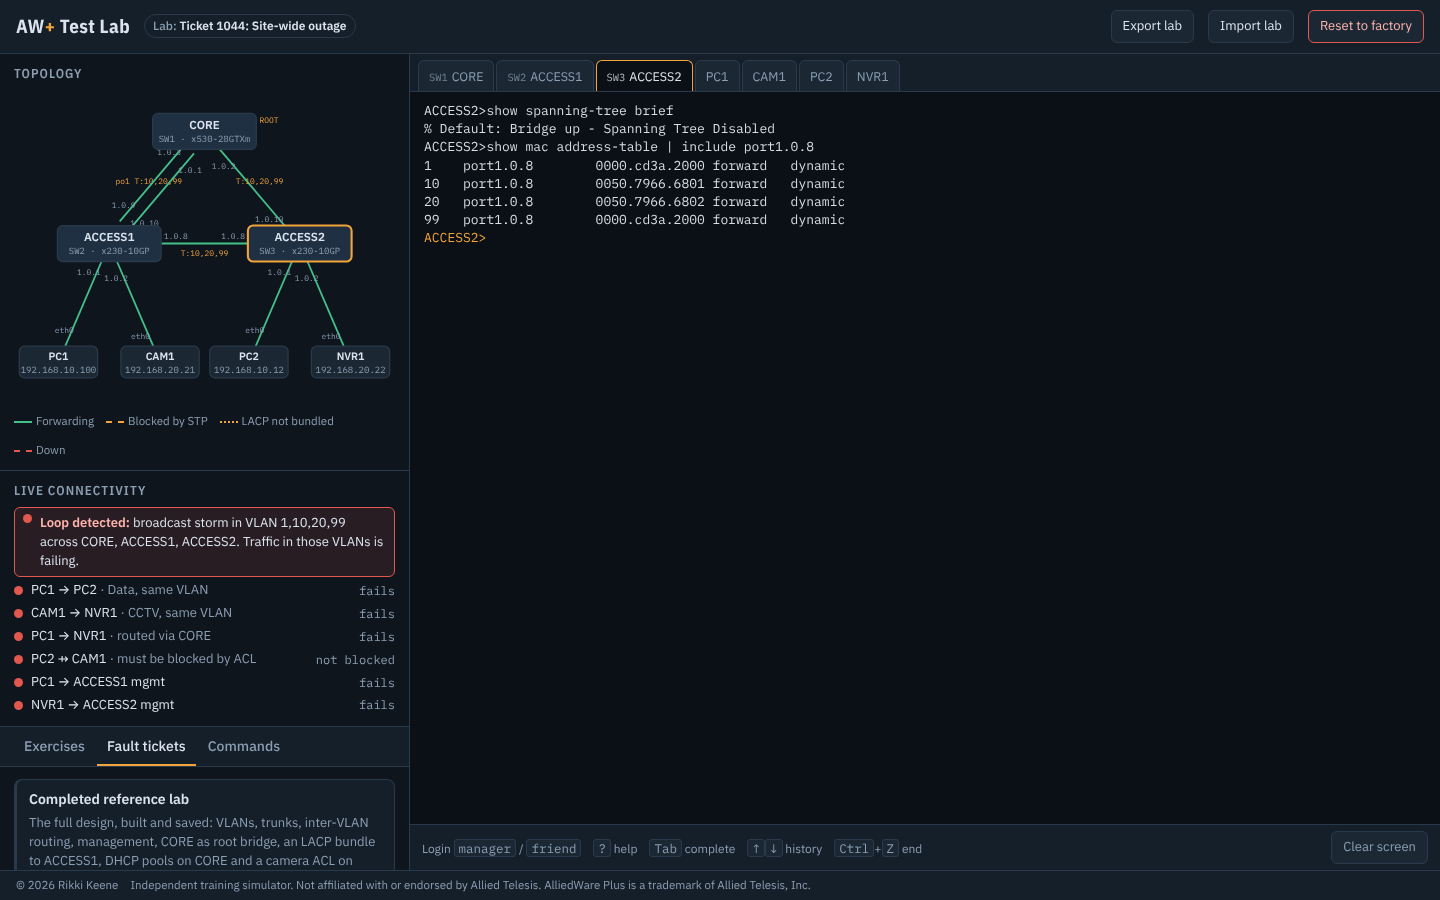
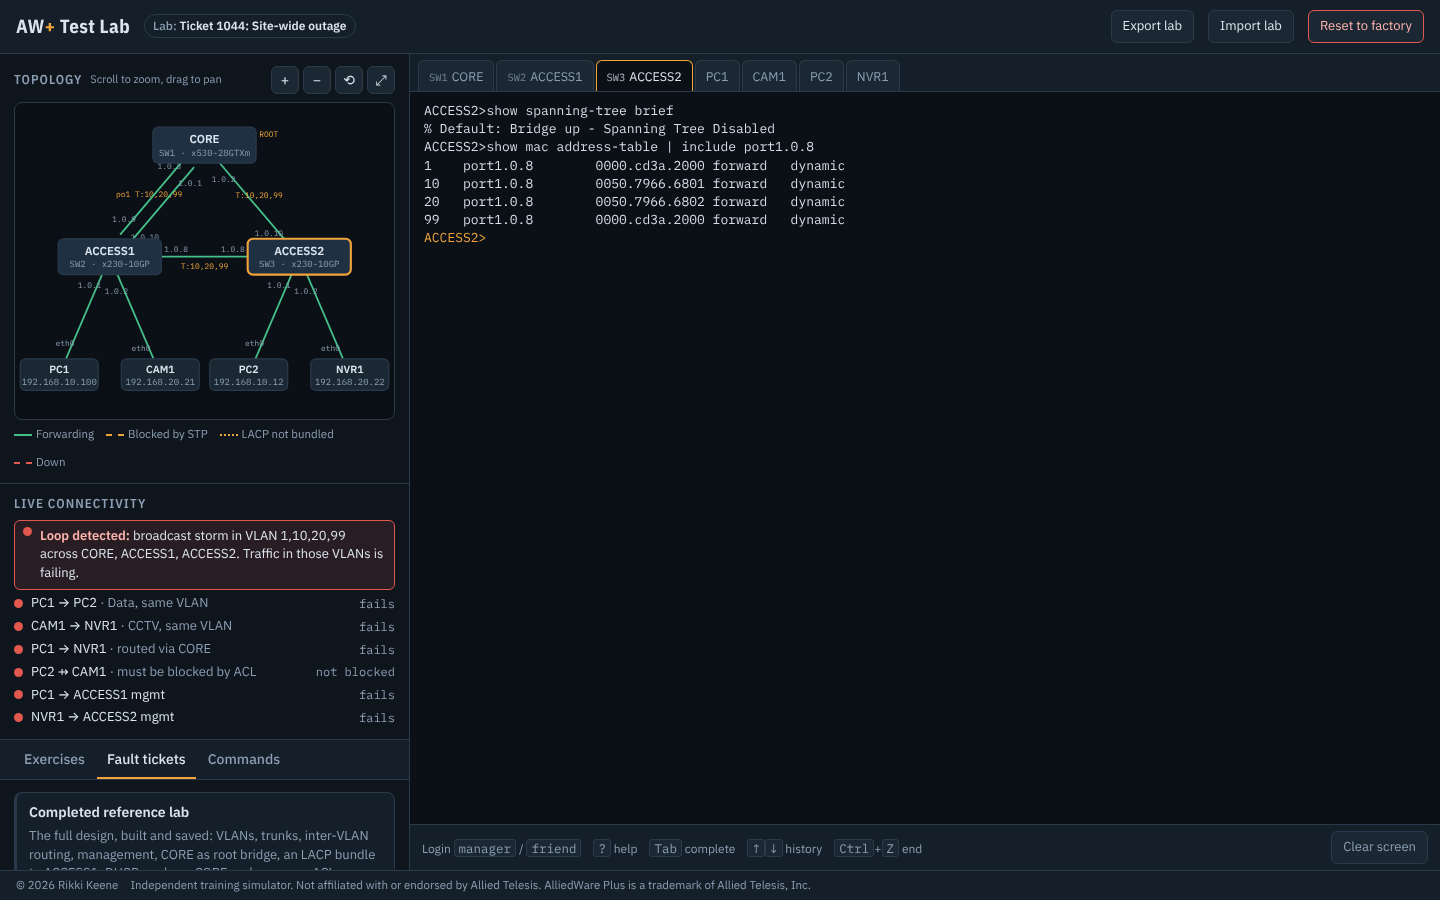
Make topology zoomable/pannable and add a large live view
- Wheel, pinch, +/- and reset zoom on the rail topology; drag to pan
  (a drag never triggers a device click)
- Large full-page topology view with the same controls, live-updating
- 'Open in new window' pop-out where the browser allows popups, with
  the large view as fallback inside sandboxed frames
- Regenerate README screenshots

Claude-Session: https://claude.ai/code/session_017NfEFSkAiKx3U3qgvE9GyH

diff --git a/index.html b/index.html
@@ -38,16 +38,33 @@ main{display:grid;grid-template-columns:minmax(330px,410px) 1fr;min-height:0}
 .rail{border-right:1px solid var(--line);overflow-y:auto;display:flex;flex-direction:column;min-height:0}
 .section{padding:12px 14px;border-bottom:1px solid var(--line)}
 .section h2{font:600 13px/1.2 var(--display);letter-spacing:.08em;text-transform:uppercase;color:var(--muted);margin:0 0 8px}
-#topo{width:100%;height:auto;display:block}
-#topo .dev{cursor:pointer}
-#topo .dev rect{fill:var(--panel-2);stroke:var(--line);stroke-width:1.2}
-#topo .dev.sw rect{fill:#1f3043}
-#topo .dev.active rect{stroke:var(--accent);stroke-width:2}
-#topo .dev:hover rect{stroke:var(--muted)}
-#topo text{fill:var(--text);font-family:var(--body)}
-#topo .sub{fill:var(--muted);font-size:8.5px;font-family:var(--mono)}
-#topo .pl{fill:var(--muted);font-size:7.5px;font-family:var(--mono)}
-#topo .vl{font-size:7.5px;font-family:var(--mono);fill:var(--accent)}
+.topo{width:100%;height:auto;display:block;touch-action:none;user-select:none;-webkit-user-select:none;cursor:grab}
+.topo.panning{cursor:grabbing}
+.topo .dev{cursor:pointer}
+.topo .dev rect{fill:var(--panel-2);stroke:var(--line);stroke-width:1.2}
+.topo .dev.sw rect{fill:#1f3043}
+.topo .dev.active rect{stroke:var(--accent);stroke-width:2}
+.topo .dev:hover rect{stroke:var(--muted)}
+.topo text{fill:var(--text);font-family:var(--body)}
+.topo .sub{fill:var(--muted);font-size:8.5px;font-family:var(--mono)}
+.topo .pl{fill:var(--muted);font-size:7.5px;font-family:var(--mono)}
+.topo .vl{font-size:7.5px;font-family:var(--mono);fill:var(--accent)}
+.topowrap{position:relative;border:1px solid var(--line);border-radius:8px;background:var(--term);overflow:hidden}
+.zoombar{position:absolute;top:6px;right:6px;display:flex;gap:4px;z-index:1}
+.zoombar button{min-width:28px;height:28px;padding:0 7px;border-radius:6px;background:var(--panel-2);border:1px solid var(--line);font-size:14px;line-height:1}
+.zoombar button:hover{border-color:var(--muted)}
+.zoombar.inline{position:static;margin-left:auto}
+.topohead{display:flex;align-items:center;gap:8px;margin:0 0 8px}
+.topohead h2{margin:0}
+.zoomhint{font-size:11px;color:var(--muted);white-space:nowrap}
+.topofull{position:fixed;inset:0;z-index:9;background:var(--bg);display:grid;grid-template-rows:auto 1fr auto}
+.topofull[hidden]{display:none}
+.topofull .bar{display:flex;align-items:center;gap:10px;padding:10px 16px;border-bottom:1px solid var(--line);background:var(--panel);flex-wrap:wrap}
+.topofull .bar h2{font:700 17px/1 var(--display);margin:0;letter-spacing:.02em}
+.topofull .topowrap{margin:12px 16px 0;border-radius:10px;min-height:0;display:flex}
+.topofull .topo{flex:1;width:100%;height:auto;min-height:0;align-self:stretch}
+.topofull .legend{padding:8px 16px 12px}
+.topofull .msg{font-size:12.5px;color:var(--muted)}
 
 .tests{display:grid;gap:4px;margin:0;padding:0;list-style:none}
 .tests li{display:flex;gap:8px;align-items:center;font-size:13px}
@@ -127,8 +144,10 @@ footer{padding:6px 16px;font-size:11.5px;color:var(--muted);border-top:1px solid
 <main>
   <aside class="rail">
     <div class="section">
-      <h2>Topology</h2>
-      <svg id="topo" viewBox="0 0 360 300" role="img" aria-label="Lab topology: CORE switch with two links to ACCESS1 and one to ACCESS2, a cross link between the access switches, and a PC and a CCTV device on each access switch"></svg>
+      <div class="topohead"><h2>Topology</h2><span class="zoomhint">Scroll to zoom, drag to pan</span><div class="zoombar inline" data-for="topo"><button type="button" data-z="in" aria-label="Zoom in" title="Zoom in">+</button><button type="button" data-z="out" aria-label="Zoom out" title="Zoom out">&minus;</button><button type="button" data-z="reset" aria-label="Reset zoom" title="Reset zoom">&#x27F2;</button><button type="button" id="btnTopoFull" aria-label="Open large topology view" title="Open large view">&#x2922;</button></div></div>
+      <div class="topowrap">
+        <svg id="topo" class="topo" viewBox="0 0 360 300" role="img" aria-label="Lab topology: CORE switch with two links to ACCESS1 and one to ACCESS2, a cross link between the access switches, and a PC and a CCTV device on each access switch"></svg>
+      </div>
       <p class="legend"><span><i></i>Forwarding</span><span><i class="b"></i>Blocked by STP</span><span><i class="l"></i>LACP not bundled</span><span><i class="d"></i>Down</span></p>
     </div>
     <div class="section">
@@ -165,6 +184,17 @@ footer{padding:6px 16px;font-size:11.5px;color:var(--muted);border-top:1px solid
   <span>Independent training simulator. Not affiliated with or endorsed by Allied Telesis. AlliedWare Plus is a trademark of Allied Telesis, Inc.</span>
 </footer>
 
+<div class="topofull" id="topoFull" hidden role="dialog" aria-modal="true" aria-label="Topology, large view">
+  <div class="bar"><h2>Topology</h2><span class="msg">Live view. Click a device to jump to its console. Scroll or pinch to zoom, drag to pan.</span><span class="spacer"></span>
+    <span class="msg" id="popMsg"></span>
+    <button class="btn" type="button" id="btnTopoWin">Open in new window</button>
+    <button class="btn primary" type="button" id="btnTopoClose">Back to lab</button></div>
+  <div class="topowrap">
+    <div class="zoombar" data-for="topoBig"><button type="button" data-z="in" aria-label="Zoom in" title="Zoom in">+</button><button type="button" data-z="out" aria-label="Zoom out" title="Zoom out">&minus;</button><button type="button" data-z="reset" aria-label="Reset zoom" title="Reset zoom">&#x27F2;</button></div>
+    <svg id="topoBig" class="topo" viewBox="0 0 360 300" preserveAspectRatio="xMidYMid meet" role="img" aria-label="Lab topology, large view"></svg>
+  </div>
+  <p class="legend"><span><i></i>Forwarding</span><span><i class="b"></i>Blocked by STP</span><span><i class="l"></i>LACP not bundled</span><span><i class="d"></i>Down</span></p>
+</div>
 <div class="modal" id="modal" hidden>
   <div class="dialog" role="dialog" aria-modal="true" aria-labelledby="mTitle">
     <h2 id="mTitle"></h2>
@@ -1358,6 +1388,9 @@ function renderTopo(){
       `<text x="${f.x}" y="${f.y-2}" text-anchor="middle" font-size="${isSw?11:10}" font-weight="600">${esc(isSw?devLabel(id):id)}</text><text class="sub" x="${f.x}" y="${f.y+10}" text-anchor="middle">${esc(isSw?id+' · '+sub:sub)}</text>`+
       (root?`<text class="vl" x="${f.x+w/2+3}" y="${f.y-8}">ROOT</text>`:'')+`</g>`;}
   $('#topo').innerHTML=g;
+  if(!$('#topoFull').hidden)$('#topoBig').innerHTML=g;
+  if(popWin&&!popWin.closed){const t=popWin.document.getElementById('topo');if(t)t.innerHTML=g;}
+  topoSVG=g;
 }
 function renderChecks(){
   const net=buildNet();let warn='';
@@ -1444,6 +1477,54 @@ function submit(){
   if(res&&typeof res.then==='function'){s.busy=true;render();res.finally(()=>{s.busy=false;checkRemote(s);afterCommand();if(id===active)$('#cmd').focus();});}
   afterCommand();
 }
+let topoSVG='',popWin=null;
+// Zoom/pan for a topology SVG by rewriting its viewBox. Wheel/pinch zoom about the pointer, drag pans; a drag never counts as a device click.
+function makeZoom(svg,onPick=selectDev,W=360,H=300){
+  let vb={x:0,y:0,w:W,h:H};const MIN=W/5,MAX=W*1.5;
+  const apply=()=>svg.setAttribute('viewBox',`${vb.x.toFixed(2)} ${vb.y.toFixed(2)} ${vb.w.toFixed(2)} ${vb.h.toFixed(2)}`);
+  const toSvg=(cx,cy)=>{const r=svg.getBoundingClientRect(),s=Math.max(vb.w/r.width,vb.h/r.height),ox=(r.width*s-vb.w)/2,oy=(r.height*s-vb.h)/2;
+    return {x:vb.x-ox+(cx-r.left)*s,y:vb.y-oy+(cy-r.top)*s,s};};
+  const zoom=(f,cx,cy)=>{const nw=Math.min(MAX,Math.max(MIN,vb.w*f));f=nw/vb.w;if(f===1)return;
+    let px=vb.x+vb.w/2,py=vb.y+vb.h/2;if(cx!=null){const p=toSvg(cx,cy);px=p.x;py=p.y;}
+    vb={x:px-(px-vb.x)*f,y:py-(py-vb.y)*f,w:vb.w*f,h:vb.h*f};apply();};
+  const cmd=c=>{if(c==='in')zoom(1/1.25);else if(c==='out')zoom(1.25);else{vb={x:0,y:0,w:W,h:H};apply();}};
+  svg.addEventListener('wheel',e=>{e.preventDefault();zoom(Math.exp(e.deltaY*(e.deltaMode===1?0.05:0.0015)),e.clientX,e.clientY);},{passive:false});
+  const pts=new Map();let moved=false,pinch=0,start=null;
+  svg.addEventListener('pointerdown',e=>{if(e.button)return;pts.set(e.pointerId,{x:e.clientX,y:e.clientY});
+    if(pts.size===1){moved=false;start={x:e.clientX,y:e.clientY};}
+    if(pts.size===2){const [a,b]=[...pts.values()];pinch=Math.hypot(a.x-b.x,a.y-b.y);}});
+  svg.addEventListener('pointermove',e=>{const p=pts.get(e.pointerId);if(!p)return;
+    if(pts.size===1){if(!moved&&Math.hypot(e.clientX-start.x,e.clientY-start.y)<4)return;
+      if(!moved){moved=true;try{svg.setPointerCapture(e.pointerId);}catch(_){}svg.classList.add('panning');}
+      const s=toSvg(0,0).s;vb.x-=(e.clientX-p.x)*s;vb.y-=(e.clientY-p.y)*s;apply();}
+    else if(pts.size===2){moved=true;const o=[...pts.entries()].find(([k])=>k!==e.pointerId)[1],d=Math.hypot(e.clientX-o.x,e.clientY-o.y);
+      if(pinch&&d)zoom(pinch/d,(e.clientX+o.x)/2,(e.clientY+o.y)/2);pinch=d;}
+    p.x=e.clientX;p.y=e.clientY;});
+  const up=e=>{pts.delete(e.pointerId);if(pts.size<2)pinch=0;if(!pts.size)svg.classList.remove('panning');
+    if(pts.size===1){const [q]=pts.values();start={x:q.x,y:q.y};}};
+  svg.addEventListener('pointerup',up);svg.addEventListener('pointercancel',up);
+  svg.addEventListener('click',e=>{if(moved){moved=false;return;}const g=e.target.closest('.dev');if(g)onPick(g.dataset.id);},true);
+  svg.addEventListener('keydown',e=>{const g=e.target.closest('.dev');if(g&&(e.key==='Enter'||e.key===' ')){e.preventDefault();onPick(g.dataset.id);}
+    else if(e.key==='+'||e.key==='=')cmd('in');else if(e.key==='-')cmd('out');else if(e.key==='0')cmd('reset');});
+  svg.addEventListener('dblclick',e=>{if(!e.target.closest('.dev'))zoom(1/1.6,e.clientX,e.clientY);});
+  return {cmd};
+}
+// Real pop-out window kept live by the main page. Returns false where popups are blocked (e.g. a sandboxed frame).
+function openTopoWindow(){
+  if(popWin&&!popWin.closed){popWin.focus();return true;}
+  let w=null;try{w=window.open('','awlab-topology','width=1100,height=820');}catch(_){w=null;}
+  if(!w)return false;
+  try{const d=w.document,css=[...document.querySelectorAll('style')].map(x=>x.textContent).join('\n');
+    d.open();d.write(`<!DOCTYPE html><html lang="en"><head><meta charset="utf-8"><title>AW+ Test Lab: topology</title><style>${css}
+body{display:grid;grid-template-rows:auto 1fr auto;height:100vh}</style></head><body><div class="topofull" style="position:static;height:100vh">
+<div class="bar"><h2>Topology</h2><span class="msg">Live view of the lab. Click a device to open its console in the lab window.</span></div>
+<div class="topowrap"><div class="zoombar"><button type="button" data-z="in" aria-label="Zoom in">+</button><button type="button" data-z="out" aria-label="Zoom out">&minus;</button><button type="button" data-z="reset" aria-label="Reset zoom">&#x27F2;</button></div>
+<svg id="topo" class="topo" viewBox="0 0 360 300" role="img" aria-label="Lab topology"></svg></div>
+<p class="legend"><span><i></i>Forwarding</span><span><i class="b"></i>Blocked by STP</span><span><i class="l"></i>LACP not bundled</span><span><i class="d"></i>Down</span></p></div></body></html>`);d.close();
+    const svg=d.getElementById('topo');svg.innerHTML=topoSVG;const z=makeZoom(svg);
+    d.querySelector('.zoombar').addEventListener('click',e=>{const b=e.target.closest('button[data-z]');if(b)z.cmd(b.dataset.z);});
+    popWin=w;return true;}catch(_){try{w.close();}catch(__){}return false;}
+}
 function boot(){
   if(!restore())loadScenario('factory');
   const inp=$('#cmd');
@@ -1463,8 +1544,13 @@ function boot(){
   });
   $('#term').addEventListener('click',()=>{if(!window.getSelection().toString())inp.focus();});
   $('#devtabs').addEventListener('click',e=>{const b=e.target.closest('button[data-id]');if(b)selectDev(b.dataset.id);});
-  $('#topo').addEventListener('click',e=>{const g=e.target.closest('.dev');if(g)selectDev(g.dataset.id);});
-  $('#topo').addEventListener('keydown',e=>{const g=e.target.closest('.dev');if(g&&(e.key==='Enter'||e.key===' ')){e.preventDefault();selectDev(g.dataset.id);}});
+  const zTopo=makeZoom($('#topo')),zBig=makeZoom($('#topoBig'),id=>{$('#topoFull').hidden=true;selectDev(id);});const Z={topo:zTopo,topoBig:zBig};
+  for(const bar of document.querySelectorAll('.zoombar'))bar.addEventListener('click',e=>{const b=e.target.closest('button[data-z]');if(b)Z[bar.dataset.for].cmd(b.dataset.z);});
+  $('#btnTopoFull').addEventListener('click',()=>{$('#topoFull').hidden=false;$('#popMsg').textContent='';$('#topoBig').innerHTML=topoSVG;zBig.cmd('reset');$('#btnTopoClose').focus();});
+  const closeFull=()=>{$('#topoFull').hidden=true;inp.focus();};
+  $('#btnTopoClose').addEventListener('click',closeFull);
+  $('#topoFull').addEventListener('keydown',e=>{if(e.key==='Escape')closeFull();});
+  $('#btnTopoWin').addEventListener('click',()=>{if(openTopoWindow())closeFull();else $('#popMsg').textContent='This page is not allowed to open new windows here, so use this large view instead.';});
   document.querySelector('.tabs').addEventListener('click',e=>{const b=e.target.closest('button[role=tab]');if(!b)return;
     for(const t of document.querySelectorAll('.tabs button')){const on=t===b;t.setAttribute('aria-selected',on);$('#'+t.getAttribute('aria-controls')).hidden=!on;}});
   let armed=null;
